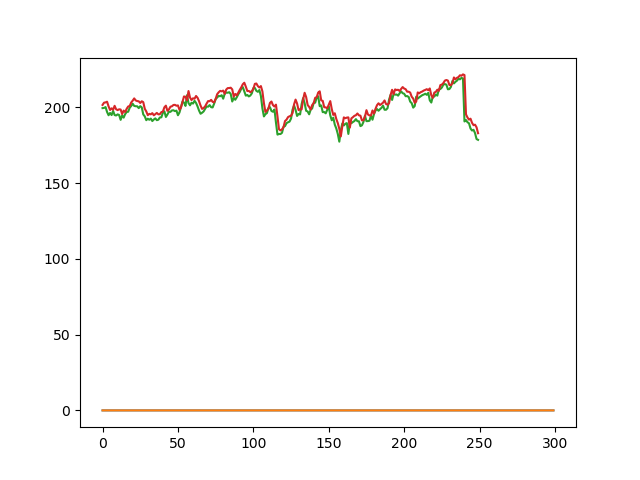
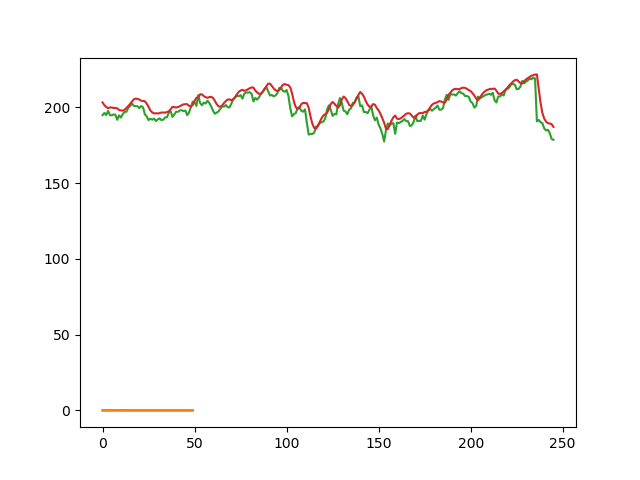
IEX data processing started

diff --git a/IEX/IEX_LSTM.py b/IEX/IEX_LSTM.py
@@ -1,8 +1,5 @@
 #  https://www.kaggle.com/amarpreetsingh/stock-prediction-lstm-using-keras
-
-# This Python 3 environment comes with many helpful analytics libraries installed
-# It is defined by the kaggle/python docker image: https://github.com/kaggle/docker-python
-# For example, here's several helpful packages to load in
+#TODO this model is wretched, some serious work needs to be done with the pre processing
 
 import numpy as np # linear algebra
 import pandas as pd # data processing, CSV file I/O (e.g. pd.read_csv)
@@ -10,13 +7,7 @@ from keras.models import Sequential
 from keras.layers import LSTM,Dense
 from sklearn.preprocessing import MinMaxScaler
 import matplotlib.pyplot as plt
-# Input data files are available in the "../input/" directory.
-# For example, running this (by clicking run or pressing Shift+Enter) will list the files in the input directory
 
-from subprocess import check_output
-# print(check_output(["ls", "combined_csv.csv"]).decode("utf8"))
-
-# Any results you write to the current directory are saved as output.
 data = pd.read_csv('combined_csv.csv')
 cl = data[data['Name']=='MMM'].close
 
@@ -24,38 +15,40 @@ scl = MinMaxScaler()
 #Scale the data
 # cl = cl.reshape(cl.shape[0], 1)
 cl= np.array(cl)
-cl = cl.reshape(cl.shape[0],1)
+cl = cl.reshape(cl.shape[0], 1)
 cl = scl.fit_transform(cl)
 
 
 #Create a function to process the data into 7 day look back slices
-def processData(data,lb):
+def processData(data, lb):
     X,Y = [],[]
     for i in range(len(data)-lb-1):
         X.append(data[i:(i+lb),0])
         Y.append(data[(i+lb),0])
     return np.array(X),np.array(Y)
-X,y = processData(cl,7)
-X_train,X_test = X[:int(X.shape[0]*0.80)],X[int(X.shape[0]*0.80):]
-y_train,y_test = y[:int(y.shape[0]*0.80)],y[int(y.shape[0]*0.80):]
-print(X_train.shape[0])
-print(X_test.shape[0])
-print(y_train.shape[0])
-print(y_test.shape[0])
+X,y = processData(cl, 7)
+
+X_train,X_test = X[:int(X.shape[0]*0.80)], X[int(X.shape[0]*0.80):]
+y_train,y_test = y[:int(y.shape[0]*0.80)], y[int(y.shape[0]*0.80):]
+print('X train:' + str(X_train.shape[0]) + ' y train: ' + str(y_train.shape[0]))
+print('X val:' + str(X_test.shape[0]) + ' y val: ' + str(y_test.shape[0]))
+print('X test:' + str(X_test.shape[0]) + ' y test: ' + str(y_test.shape[0]))
 
 #Build the model
 model = Sequential()
-model.add(LSTM(256,input_shape=(7,1)))
+model.add(LSTM(256, input_shape=(7, 1)))
 model.add(Dense(1))
 model.compile(optimizer='adam',loss='mse')
 #Reshape data for (Sample,Timestep,Features)
 X_train = X_train.reshape((X_train.shape[0],X_train.shape[1],1))
 X_test = X_test.reshape((X_test.shape[0],X_test.shape[1],1))
 #Fit model with history to check for overfitting
-history = model.fit(X_train,y_train,epochs=300,validation_data=(X_test,y_test),shuffle=False)
+history = model.fit(X_train,y_train,epochs=50,validation_data=(X_test,y_test),shuffle=False)
 
 plt.plot(history.history['loss'])
 plt.plot(history.history['val_loss'])
+plt.savefig('loss_val')
+
 
 Xt = model.predict(X_test)
 plt.plot(scl.inverse_transform(y_test.reshape(-1,1)))
@@ -64,12 +57,11 @@ plt.savefig('fig01')
 
 act = []
 pred = []
-# for i in range(250):
-i=249
-Xt = model.predict(X_test[i].reshape(1,7,1))
-print('predicted:{0}, actual:{1}'.format(scl.inverse_transform(Xt),scl.inverse_transform(y_test[i].reshape(-1,1))))
-pred.append(scl.inverse_transform(Xt))
-act.append(scl.inverse_transform(y_test[i].reshape(-1,1)))
+for i in range(250):
+    Xt = model.predict(X_test[i].reshape(1, 7, 1))
+    print('predicted:{0}, actual:{1}'.format(scl.inverse_transform(Xt),scl.inverse_transform(y_test[i].reshape(-1,1))))
+    pred.append(scl.inverse_transform(Xt))
+    act.append(scl.inverse_transform(y_test[i].reshape(-1,1)))
 
 result_df = pd.DataFrame({'pred':list(np.reshape(pred, (-1))),'act':list(np.reshape(act, (-1)))})
 

diff --git a/IEX/merge_csvs.py b/IEX/merge_csvs.py
@@ -2,11 +2,35 @@
 import os
 import glob
 import pandas as pd
+
+#  set target for price prediction
+#  target == close price on today + DAYS_AHEAD
+DAYS_AHEAD = 2
+
 os.chdir("tmp/")
 extension = 'csv'
 all_filenames = [i for i in glob.glob('*.{}'.format(extension))]
-combined_csv = pd.concat([pd.read_csv(f) for f in all_filenames ])
-os.chdir("../")
-combined_csv.to_csv("combined_csv.csv", index=False, encoding='utf-8-sig')
+target_rows = 0
+
+for f in all_filenames:
+    df = pd.read_csv(f, index_col=False)
+
+    if target_rows == 0:
+        target_rows = df.count()[0]
+
+    row_count = df.count()[0]
+    if row_count != target_rows:
+        print("ROW ERROR: " + f + ' ROWS: ' + str(row_count) + " TARGET ROWS: " + str(target_rows))
+        continue
+
+    next_day_close = df['close']
+    next_day_close = next_day_close.drop(range(DAYS_AHEAD))
+
+    df = df.drop(range(target_rows - DAYS_AHEAD, target_rows))
+    df['Target_Close_Plus_' + str(DAYS_AHEAD)] = next_day_close.values
+
+# combined_csv = pd.concat([pd.read_csv(f) for f in all_filenames])
+# os.chdir("../")
+# combined_csv.to_csv("combined_csv.csv", index=False, encoding='utf-8-sig')
 
 print('Fin')

diff --git a/IEX/IEX_PreProcess.py b/IEX/IEX_PreProcess.py
@@ -1,0 +1,33 @@
+import numpy as np # linear algebra
+import pandas as pd # data processing, CSV file I/O (e.g. pd.read_csv)
+from sklearn.preprocessing import MinMaxScaler
+
+
+data = pd.read_csv('combined_csv.csv')
+
+data.values
+
+
+
+
+# cl = data[data['Name']=='MMM'].close
+#
+# scl = MinMaxScaler()
+# #Scale the data
+# cl = np.array(cl)
+# cl = cl.reshape(cl.shape[0], 1)
+# cl = scl.fit_transform(cl)
+#
+# def processData(data, lb):
+#     X,Y = [],[]
+#     for i in range(len(data)-lb-1):
+#         X.append(data[i:(i+lb),0])
+#         Y.append(data[(i+lb),0])
+#     return np.array(X),np.array(Y)
+# X,y = processData(cl, 7)
+#
+# X_train,X_test = X[:int(X.shape[0]*0.80)], X[int(X.shape[0]*0.80):]
+# y_train,y_test = y[:int(y.shape[0]*0.80)], y[int(y.shape[0]*0.80):]
+# print('X train:' + str(X_train.shape[0]) + ' y train: ' + str(y_train.shape[0]))
+# print('X val:' + str(X_test.shape[0]) + ' y val: ' + str(y_test.shape[0]))
+# print('X test:' + str(X_test.shape[0]) + ' y test: ' + str(y_test.shape[0]))
